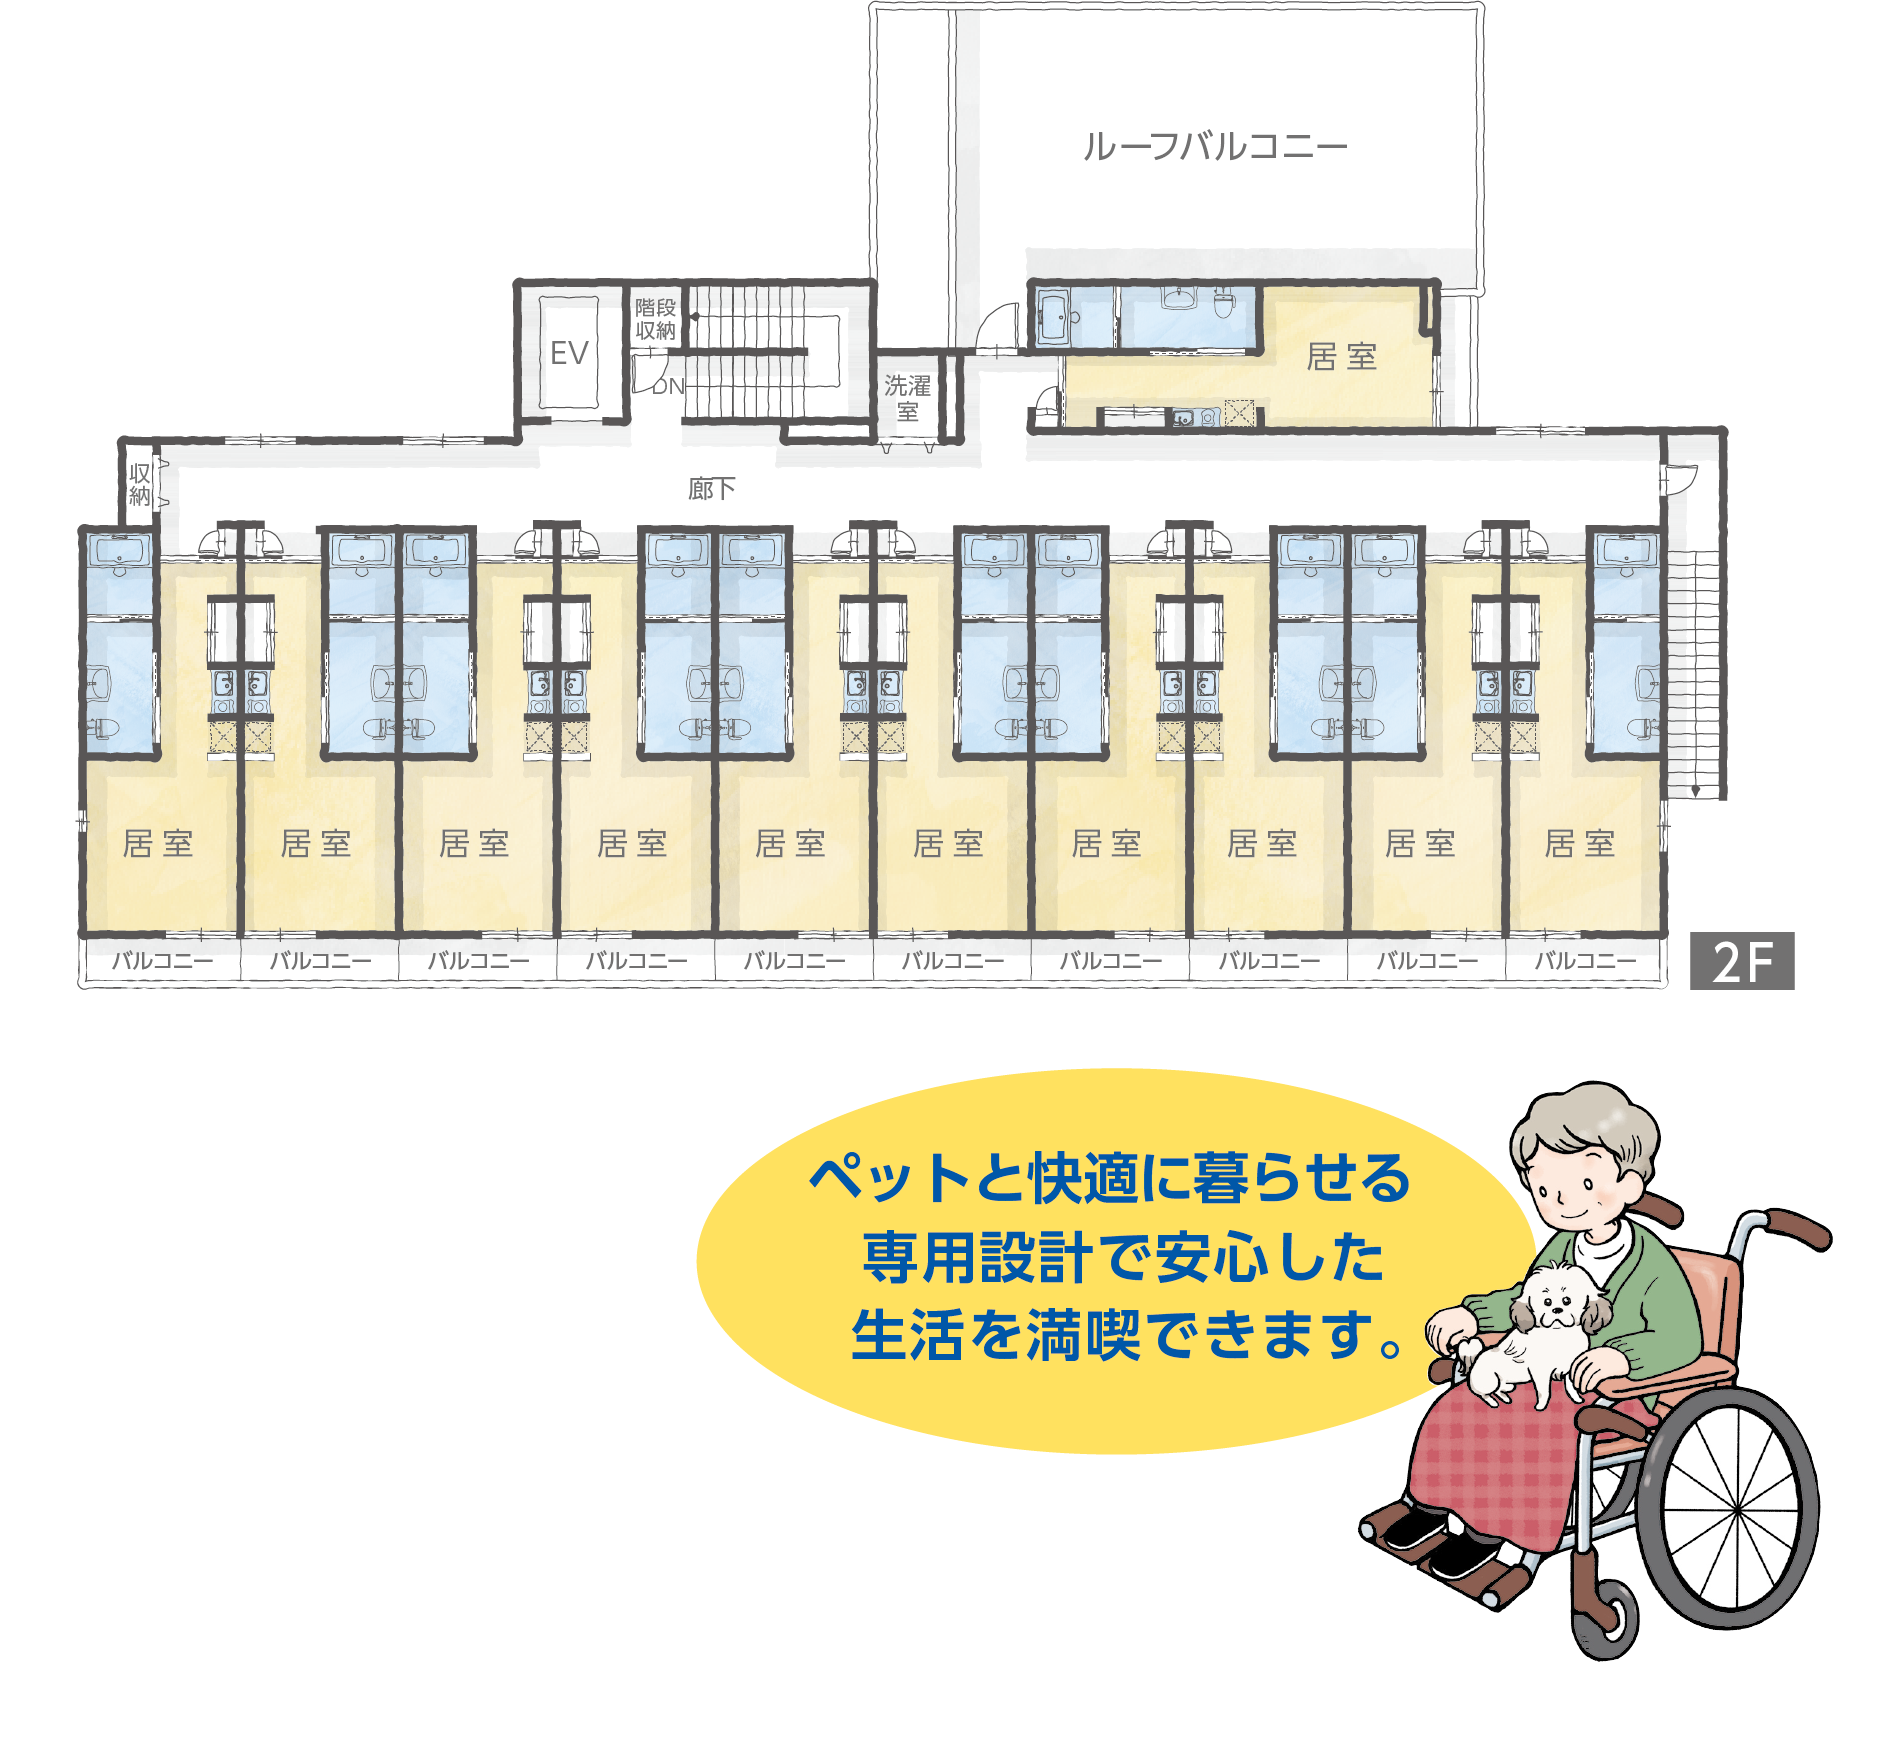
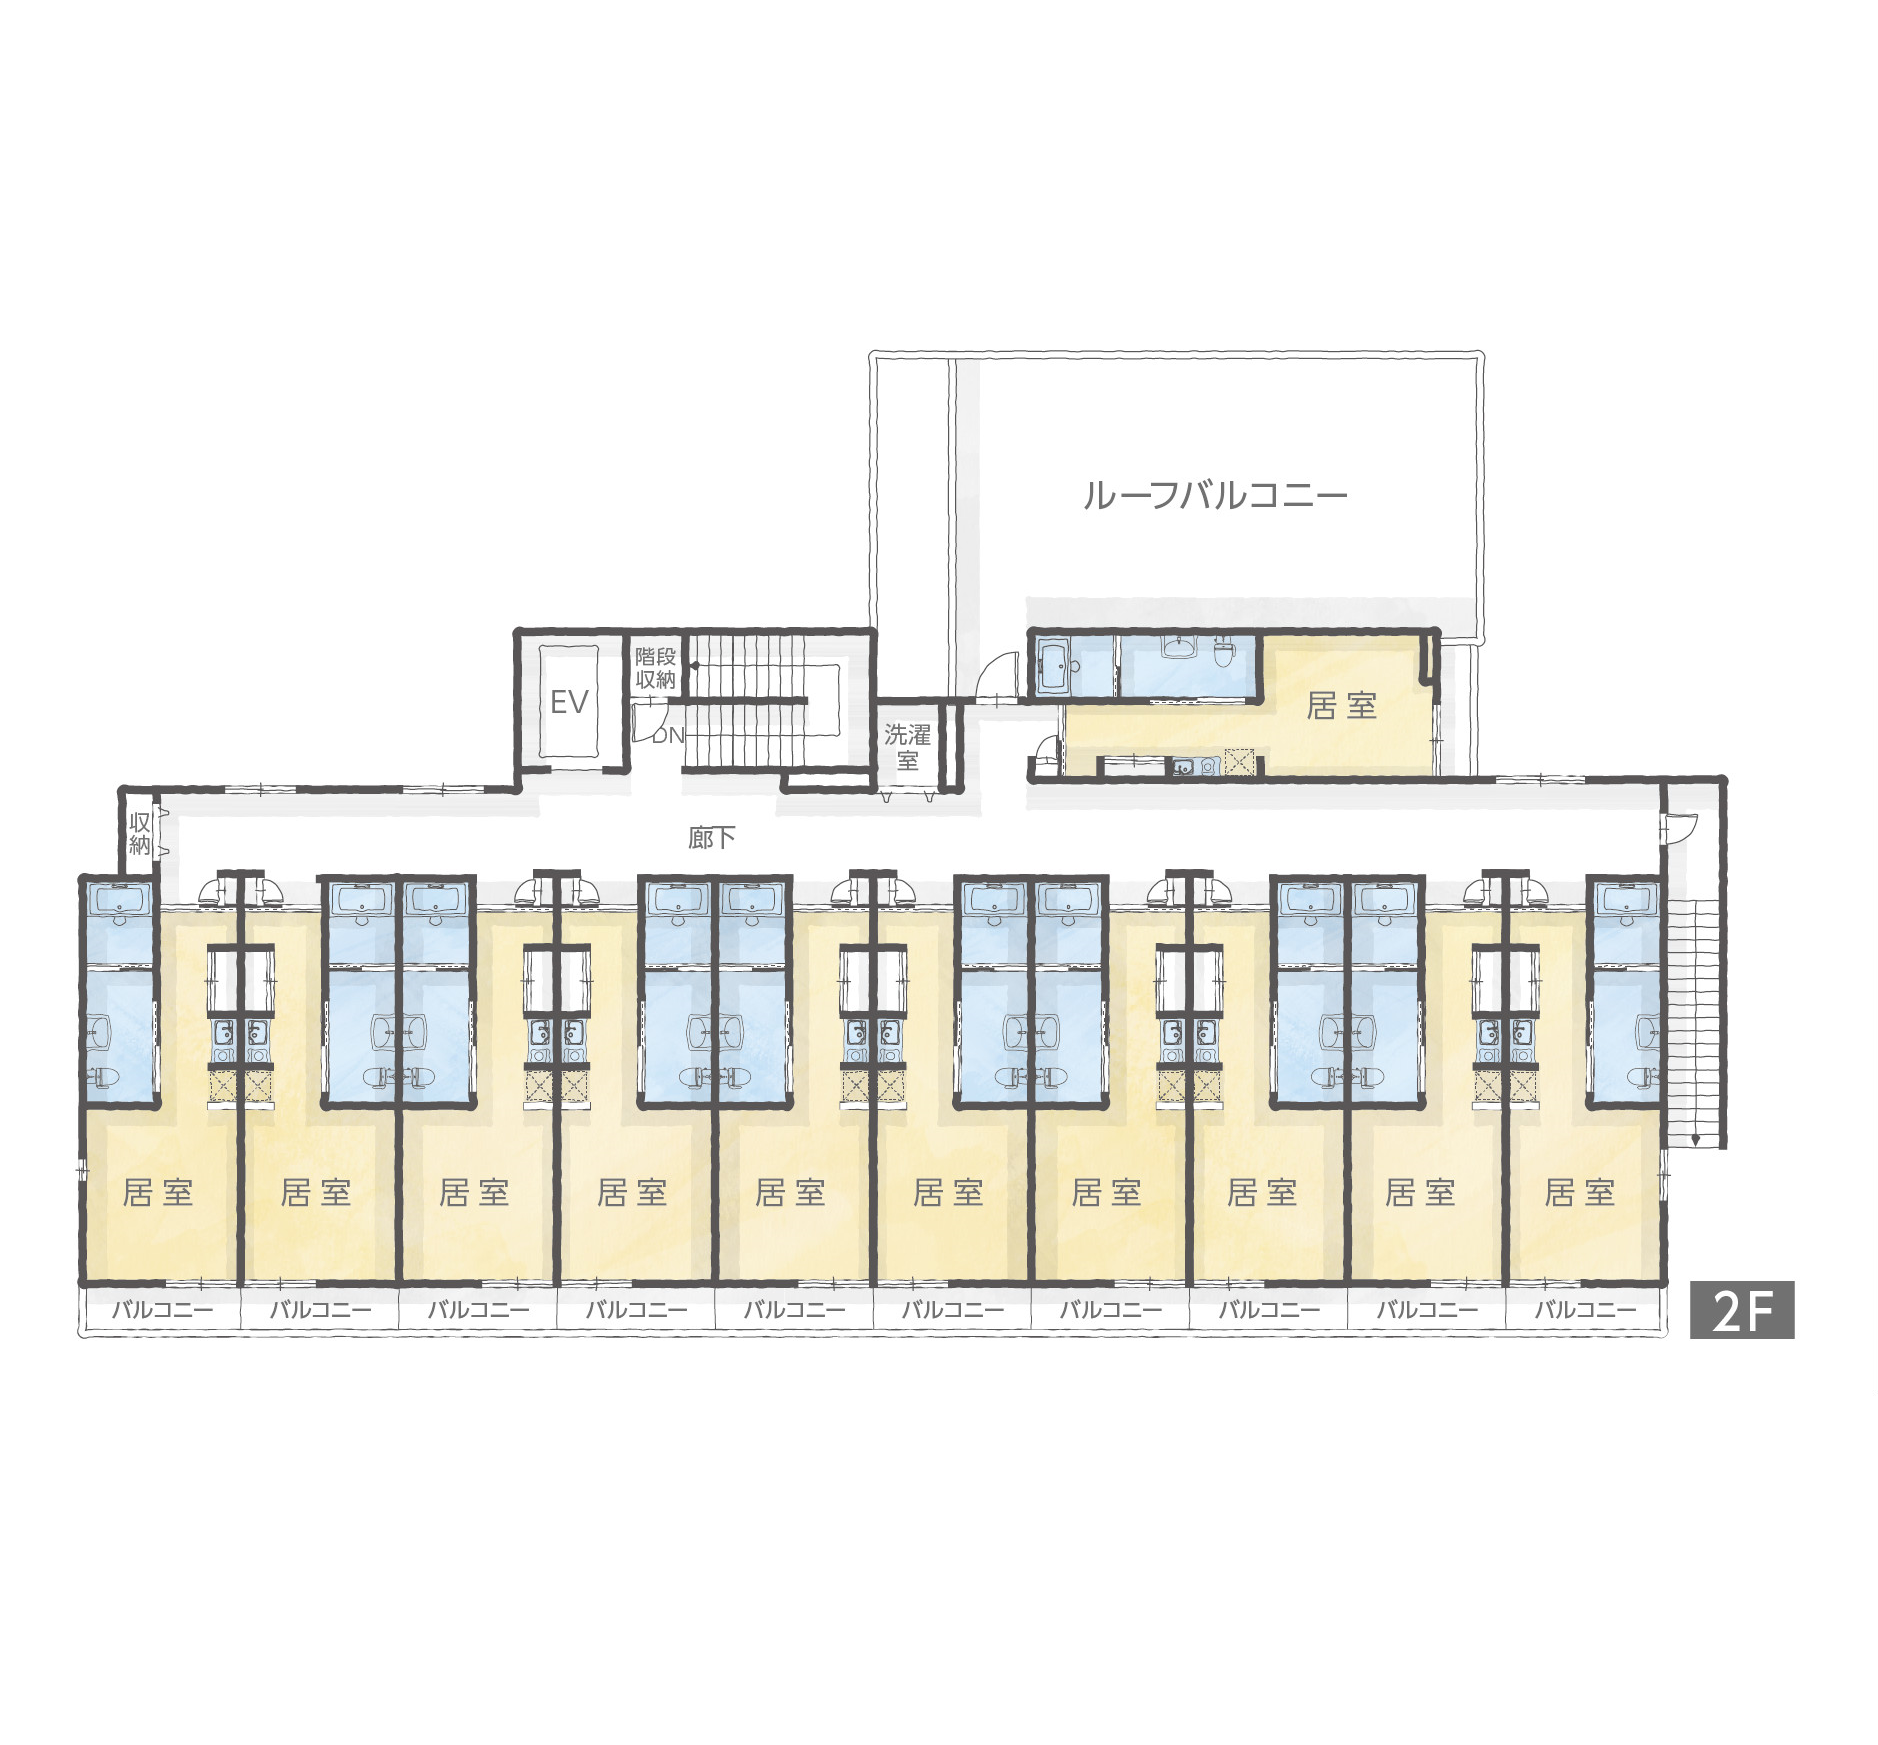
up

diff --git a/docs/demo02/feature.html b/docs/demo02/feature.html
@@ -219,6 +219,26 @@
 				フロアマップ
 			</h5>
 
+			<div class="wrap-gallery isotope-grid flex-w p-l-25 p-r-25">
+				<!-- - -->
+				<div class="item-gallery1 isotope-item bo-rad-10 hov-img-zoom">
+					<img src="assets/img/feature/1f.png" alt="ハートランド・エミシア久我山1F">
+
+					<div class="overlay-item-gallery trans-0-4 flex-c-m">
+						<a class="btn-show-gallery flex-c-m fa fa-search" href="assets/img/feature/1f.png" data-lightbox="gallery"></a>
+					</div>
+				</div>
+
+				<!-- - -->
+				<div class="item-gallery1 isotope-item bo-rad-10 hov-img-zoom">
+					<img src="assets/img/feature/2f.png" alt="ハートランド・エミシア久我山1F">
+
+					<div class="overlay-item-gallery trans-0-4 flex-c-m">
+						<a class="btn-show-gallery flex-c-m fa fa-search" href="assets/img/feature/2f.png" data-lightbox="gallery"></a>
+					</div>
+				</div>
+
+				</div>
 
 		</div>
 	</section>

diff --git a/docs/demo02/assets/css/common.css b/docs/demo02/assets/css/common.css
@@ -139,3 +139,23 @@ table {
     top: -1px;                  /* 位置調整 */
     margin-right: 5px;          /* 余白指定 */
 }
+
+/* フロアマップ用 */
+.item-gallery1 {
+  width: calc((100% - 140px) / 2);
+  margin: 30px 15px;
+  position: relative;
+}
+
+@media (max-width: 768px) {
+  .item-gallery1 {
+    width: calc((100% - 110px) / 2);
+  }
+}
+
+@media (max-width: 576px) {
+  .item-gallery1 {
+    width: calc((100% - 30px) / 1);
+  }
+
+}
